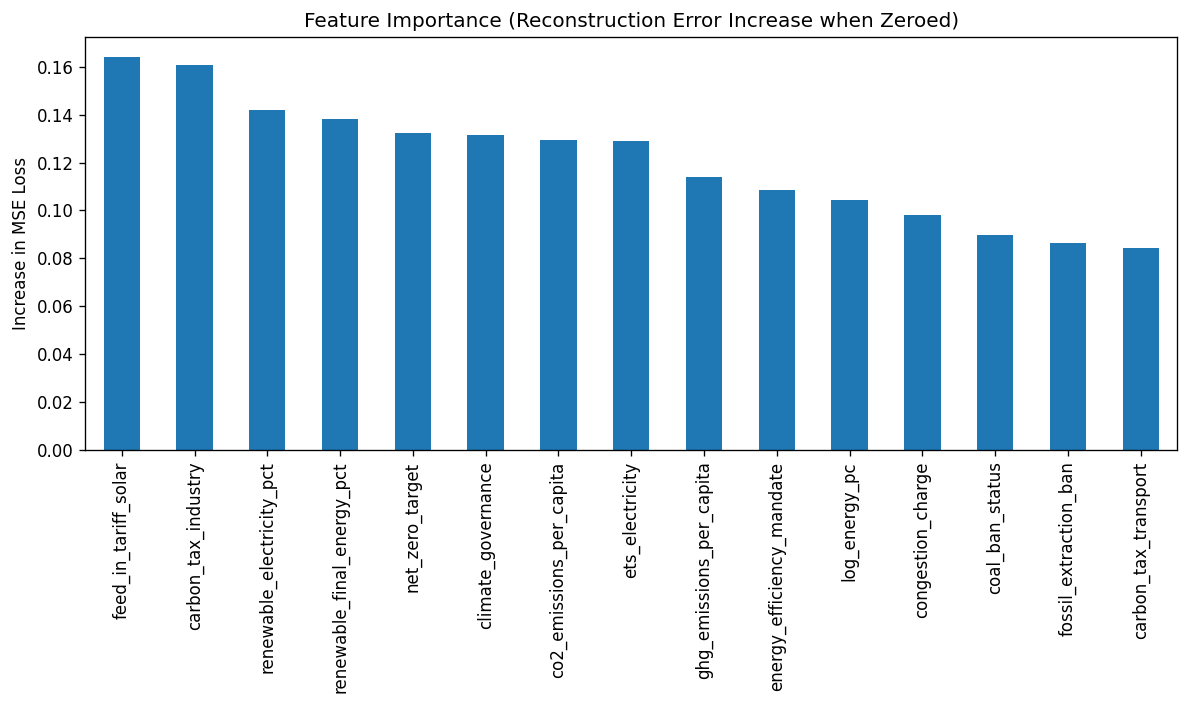
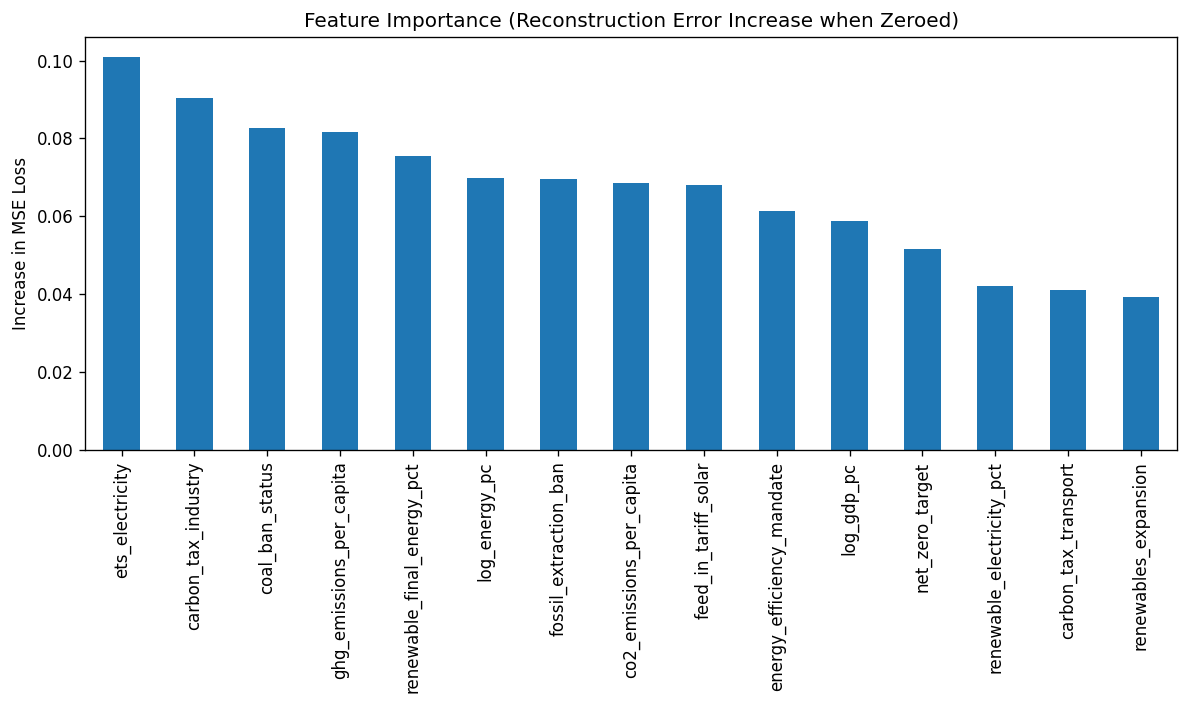
fiinal tweaks

diff --git a/README.md b/README.md
@@ -1,5 +1,5 @@
 # Identifying and Tracking Climate Policy Archetypes
-**A Cluster-Based Assessment of select OECD countries' Climate Action (2000-2021)**
+**A Cluster-Based Assessment of Climate Action Across 49 Countries (2000–2020)**
 
 An unsupervised machine learning project that identifies and tracks global climate policy archetypes using K-Means, Hierarchical Clustering, DBSCAN, and a PyTorch Autoencoder.
 
@@ -9,26 +9,33 @@ An unsupervised machine learning project that identifies and tracks global clima
 - [AE Latent Space (3D)](https://irvsam.github.io/Identifying-and-Tracking-Climate-Policy-Archetypes/notebooks/outputs/ae_latent_3d.html)
 - [Temporal Trajectories (3D)](https://irvsam.github.io/Identifying-and-Tracking-Climate-Policy-Archetypes/notebooks/outputs/trajectories_3d.html)
 
-## Data Sources 
+## How This Repo Works
 
-* **World Bank Development Indicators (WDI)**
-  * **Citation**: World Bank (2026), World Development Indicators.
-  * **License**: Creative Commons Attribution 4.0 International (CC BY 4.0).
-  * **Access**: Data accessed via the World Bank API.
+### `src/` — Data Pipeline Scripts
+Run these first to generate the processed datasets before opening the notebook.
 
-* **OECD Climate Actions and Policies Measurement Framework (CAPMF)**
-  * **Citation**: OECD (2025), CAPMF Measurement Framework.
-  * **License**: OECD Terms and Conditions for Use.
-  * **Access**: Data accessed via OECD SDMX API.
+- **`collecting.py`** — Fetches raw data from the World Bank API, OECD CAPMF API, and a local ND-GAIN CSV. Merges everything into country-year pairs, fills missing policy values with 0, and outputs two CSVs: a long-format temporal dataset and an averaged snapshot per country.
+- **`cleaning.py`** — Clips negative values in percentage columns, log-transforms GDP per capita and energy use per capita, then drops the original raw versions of those columns. Applies PowerTransformer (Yeo-Johnson) scaling separately to the averaged and temporal datasets.
+- **`preprocessing.py`** — Standalone helper that applies either PowerTransformer or StandardScaler to a dataset and saves the result. Used for earlier experiments.
+- **`data_loader.py`** — Helper functions for fetching World Bank, OECD, and EDGAR data, used by `collecting.py`.
+- **`constants.py`** — Country list (50 countries), year range (2000–2020), World Bank indicator codes, and selected OECD policy IDs with human-readable names.
 
-* **ND-GAIN Country Index**
-  * **Citation**: Notre Dame Global Adaptation Initiative (2025).
-  * **License**: Creative Commons Attribution 4.0 International (CC BY 4.0).
-  * **Access**: [gain.nd.edu](https://gain.nd.edu/our-work/country-index/)
+### `notebooks/` — Experiments
+The main experiment is in `final_consolidated_archetype_testing.ipynb`. It runs the following in sequence:
 
-  ## Daily logs
-  Daily logs are kept in logbook.txt and are a good read to see how the project evolved over time. 
+1. **Snapshot Clustering** — K-Means (with elbow and silhouette plots to choose k), Hierarchical (Ward linkage with dendrogram), and DBSCAN (with k-distance plot to choose eps); includes a cluster fingerprint heatmap and a stability check (co-occurrence matrix over 50 runs)
+2. **Autoencoder + K-Means** — PyTorch autoencoder (input → 16 → 8 → 3 → 8 → 16 → input) compressing the averaged data to a 3D latent space, then K-Means on that representation; includes a PCA scatter plot, cluster fingerprint heatmap, and a counterfactual test where a real country's features are tweaked to see if it moves cluster
+3. **Temporal Trajectories** — A second autoencoder trained on the full country-year dataset; tracks how countries move through archetype space from 2000 to 2020, with a 3D line plot, per-country cluster sequences, and a bar chart of total movement
+4. **Feature Set Comparison (Maps)** — Re-runs clustering on the full feature set vs. policy-only (economic indicators removed), uses the Hungarian algorithm to align labels before comparing, and renders both as interactive choropleths
+5. **Feature Importance** — Zeroes out each feature one at a time and measures the increase in reconstruction error to see which features the autoencoder relies on most
 
-  ## Main Experiment
-  The main final consolidated experiment lives in [this final notebook](notebooks/final_consolidated_archetype_testing.ipynb)
-  The rest of the notebooks contain iterative experiments that evolved over time and accumulated into the consolidated file.
+The other notebooks in the folder contain earlier iterative experiments that accumulated into the consolidated file.
+
+### Daily Logs
+`logbook.txt` traces how the project evolved — worth a read to see the full thought process.
+
+## Data Sources
+
+- **World Bank Development Indicators (WDI)** — accessed via World Bank API. License: CC BY 4.0.
+- **OECD Climate Actions and Policies Measurement Framework (CAPMF)** — accessed via OECD SDMX API.
+- **ND-GAIN Country Index** — [gain.nd.edu](https://gain.nd.edu/our-work/country-index/). License: CC BY 4.0.